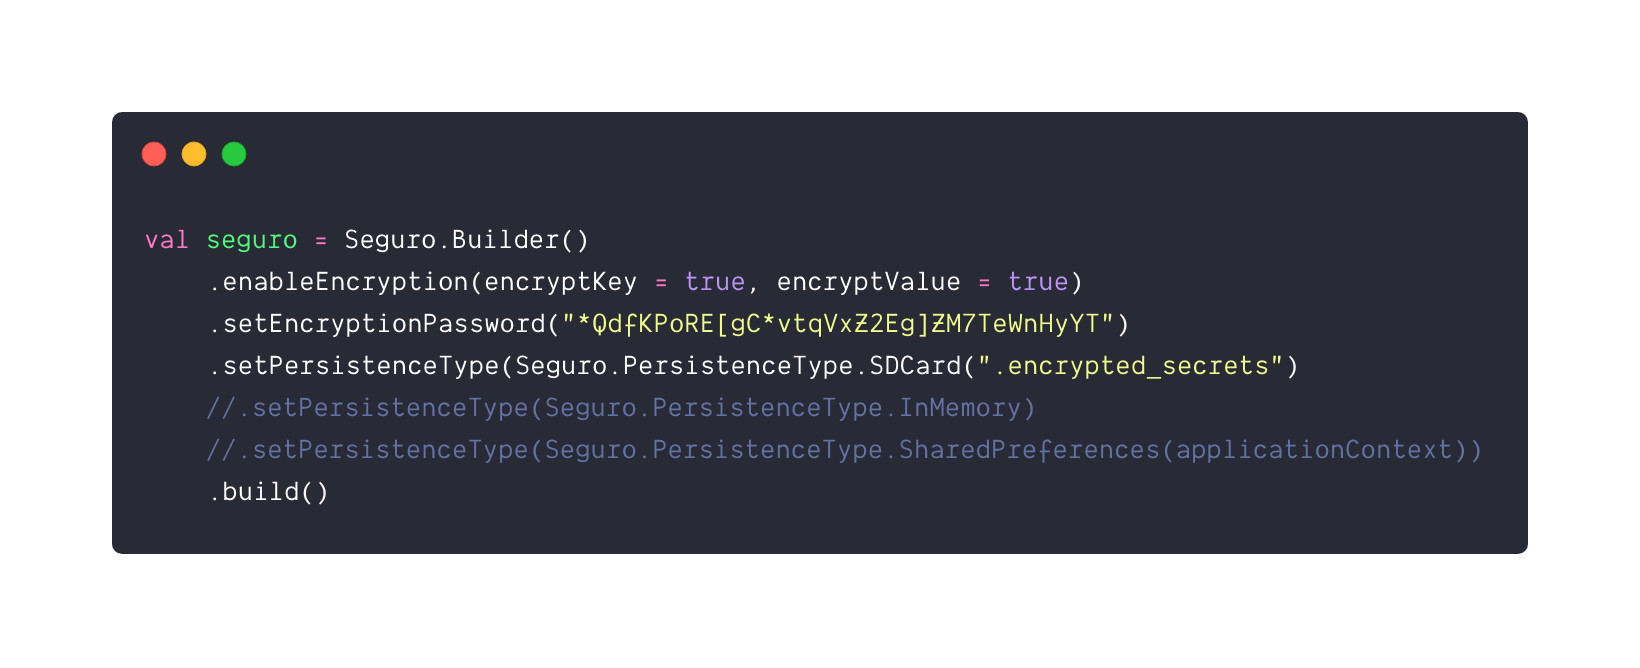
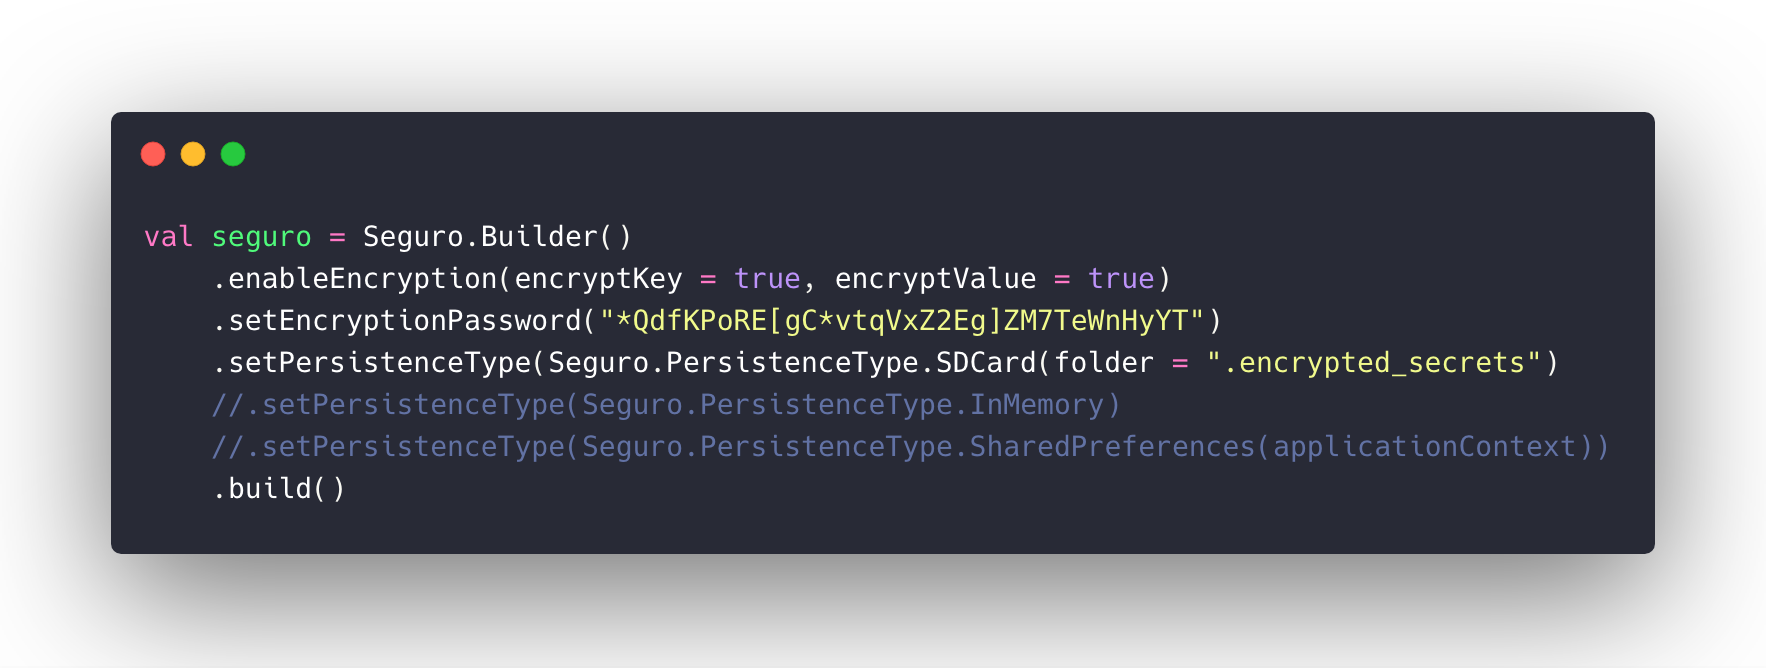
updated variable name

Changed region(s): [[0.0, 0.1198, 0.9951, 0.988], [0.1244, 0.7186, 0.2177, 0.7485]]

diff --git a/seguro-core/src/main/java/cesarferreira/seguro/library/persistance/SdCardPersistence.kt b/seguro-core/src/main/java/cesarferreira/seguro/library/persistance/SdCardPersistence.kt
@@ -4,9 +4,9 @@ import android.os.Environment
 import java.io.File
 import java.io.InputStream
 
-open class SdCardPersistence(private val mainDirectoryName: String) : PersistenceManager {
+open class SdCardPersistence(private val folder: String) : PersistenceManager {
 
-    private val baseDir = File(Environment.getExternalStorageDirectory(), mainDirectoryName)
+    private val baseDir = File(Environment.getExternalStorageDirectory(), folder)
 
     @Synchronized
     override fun write(key: String, value: String): Boolean {
@@ -50,7 +50,7 @@ open class SdCardPersistence(private val mainDirectoryName: String) : Persistenc
     }
 
     private fun createDirectoryIfDoesntExist(): String {
-        val fullDirectory = "$mainDirectoryName/"
+        val fullDirectory = "$folder/"
 
         if (!baseDir.exists() || !baseDir.isDirectory) baseDir.mkdirs()
 
